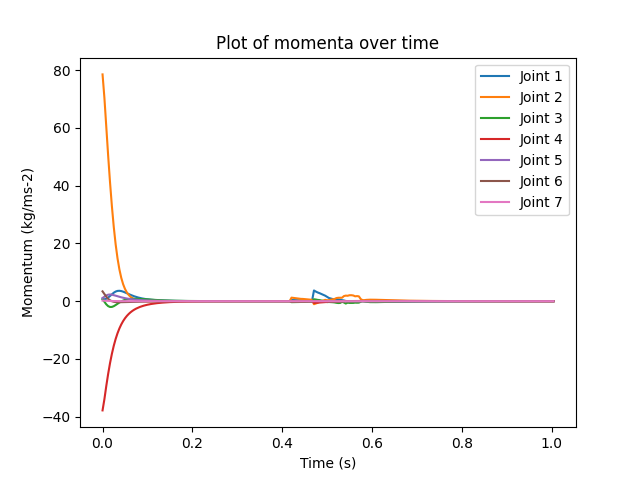
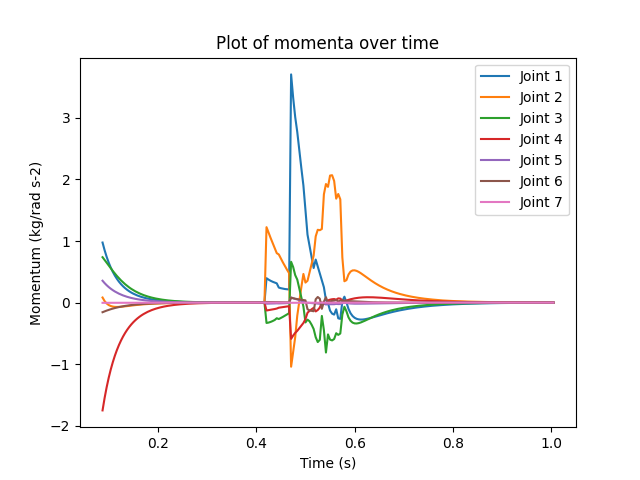
added coriolis matrix check. shortened time range. added KE

diff --git a/main.py b/main.py
@@ -6,10 +6,11 @@ import time
 import pybullet_data
 import numpy as np
 import matplotlib.pyplot as plt
+from mpl_toolkits.mplot3d import Axes3D
 
 
 robot_urdf = "kuka_lbr_iiwa_support/urdf/lbr_iiwa_14_r820.urdf"
-simulation_steps = 1000
+collision_index = 100
 
 
 def main():
@@ -50,18 +51,23 @@ def main():
     time_step = 1/240
     p.setTimeStep(time_step)
 
+    simulation_steps = 1000
+
     p_0 = None
     r_0 = None
     previous_velocities = None
+    selected_link = None
 
     gain_values = [0.01] * 7
     gain_matrix = np.diag(gain_values)
-    print(gain_matrix)
+    # print(gain_matrix)
 
     residuals = []
     time_steps = []
     all_joint_velocities = []
     all_momenta = []
+    all_link_positions = {i: [] for i in range(num_joints)}
+    kinetic_energy = []
 
     # Display in the simulation how the robot goes from initial position, to our desired position
     for i in range(simulation_steps):
@@ -90,6 +96,9 @@ def main():
             if j_type > 0:
                 continue
 
+            link_pos = link_state[4]
+            all_link_positions[joint_index].append(link_pos)
+
             j_name = joint_info[1].decode("utf-8")
             j_index = joint_info[0]
 
@@ -109,7 +118,7 @@ def main():
         # print(joint_names)
         # print(joint_types)
         # print(joint_indexes)
-        print(joint_velocities_3D)
+        # print(joint_velocities_3D)
 
         ################################################################
 
@@ -117,6 +126,11 @@ def main():
 
         # print(f"Inertia matrix: {inertia_matrix}")
         # print(inertia_matrix.shape)
+
+        #################################################################
+
+        ke = 0.5 * np.matrix(joint_velocities) * inertia_matrix * np.matrix(joint_velocities).transpose()
+        kinetic_energy.append(ke.item(0, 0))
 
         #################################################################
 
@@ -152,9 +166,39 @@ def main():
         # print(f"Coriolis Matrix: {C}")
         # print(f"Coriolis matrix shape: {C.shape}")
 
+        ########################## Coriolis Matrix Check #################
+
+        # matches = []
+        # affected_joints = [0, 3, 5]
+        # delta_q = 0.001
+        # dq = copy.copy(joint_positions)
+        #
+        # for joint in affected_joints:
+        #     dq[joint] += delta_q
+        #
+        # dq_ = [q + q_ for q, q_ in zip(joint_positions, dq)]
+        # M_k = inertia_matrix / dq_
+        #
+        # dM_dt = np.zeros(shape=M_k.shape)
+        #
+        # rows, cols = M_k.shape
+        #
+        # coriolis_check = C + np.transpose(C)
+        #
+        # for row in range(rows):
+        #     for col in range(cols):
+        #         dM_dt[row][col] = (inertia_matrix[row][col] - M_k[row][col]) / time_step
+        #
+        #         if dM_dt[row][col] == coriolis_check[row][col]:
+        #             matches.append(True)
+        #         else:
+        #             matches.append(False)
+        #
+        # print(f"Coriolis computation is valid: {all(matches)}")
+
         #################################################################
 
-        if i == 100:
+        if i == collision_index:
             # Retrieve the link positions and orientations
             link_states = p.getLinkStates(robot, range(7))
 
@@ -165,6 +209,7 @@ def main():
             random_index = random.randint(3, len(link_positions) - 1)
 
             # Get the position and orientation of the randomly selected link
+            selected_link = random_index
             selected_link_position = link_positions[random_index]
             selected_link_orientation = link_orientations[random_index]
 
@@ -174,7 +219,6 @@ def main():
 
             print("FORCE APPLIED AT LINK", random_index)
             print(f"FORCE APPLIED AT TIME: {current_time}")
-            time.sleep(5)
 
             # Create a visual marker at the selected point
             marker_size = 0.05
@@ -204,7 +248,7 @@ def main():
 
         residuals.append(new_residual)
 
-        print(f"New residual: {new_residual}")
+        # print(f"New residual: {new_residual}")
 
         #####################################################
 
@@ -213,8 +257,20 @@ def main():
         if current_time > 1.0:
             break
 
+        # time.sleep(0.25)
+
     # Remove initial residual value
     residuals.pop(0)
+
+    print(time_steps)
+
+    index = time_steps.index(0.0875)
+
+    time_steps = time_steps[index:]
+    residuals = residuals[index:]
+    all_momenta = all_momenta[index:]
+    all_joint_velocities = all_joint_velocities[index:]
+    kinetic_energy = kinetic_energy[index:]
 
     plot_graph("Plot of residuals over time",
                "residuals",
@@ -226,7 +282,7 @@ def main():
 
     plot_graph("Plot of momenta over time",
                "momenta",
-               "Momentum (kg/ms-2)",
+               "Momentum (kg/rad s-2)",
                all_momenta,
                time_steps)
 
@@ -234,9 +290,26 @@ def main():
 
     plot_graph("Plot of velocity over time",
                "velocities",
-               "Velocity (ms-1)",
+               "Velocity (rad s-1)",
                all_joint_velocities,
                time_steps)
+
+    plt.clf()
+
+    plot_scalar_graph("Plot of kinetic energy over time",
+                      "kinetic_energy",
+                      "Kinetic Energy",
+                      kinetic_energy,
+                      time_steps)
+
+    plt.clf()
+
+    positions = all_link_positions[selected_link]
+    positions = positions[index:]
+    plot_3d_graph("Plot of collision-affected link movement",
+                  "link_movement",
+                  "Euclidean distance",
+                  positions)
 
     p.disconnect()
 
@@ -278,6 +351,20 @@ def compute_coriolis_matrix(robot, joint_positions, joint_velocities, joint_acce
     return C + Csq + np.diag(joint_velocities)
 
 
+def plot_scalar_graph(title, figure_name, variable_name, variables, time_steps):
+
+    timesteps = np.array(time_steps)
+
+    plt.plot(timesteps, np.array(variables))
+
+    plt.xlabel('Time (s)')
+    plt.ylabel(variable_name)
+    plt.title(title)
+    plt.legend()
+
+    plt.savefig(figure_name+".png")
+
+
 def plot_graph(title, figure_name, variable_name, variables, time_steps):
 
     vel = np.array(variables)
@@ -290,6 +377,32 @@ def plot_graph(title, figure_name, variable_name, variables, time_steps):
     plt.ylabel(variable_name)
     plt.title(title)
     plt.legend()
+
+    plt.savefig(figure_name+".png")
+
+
+def plot_3d_graph(title, figure_name, variable_name, variables):
+
+    x = [point[0] for point in variables]
+    y = [point[1] for point in variables]
+    z = [point[2] for point in variables]
+
+    fig = plt.figure()
+    ax = fig.add_subplot(111, projection='3d')
+    ax.scatter(x, y, z)
+
+    highlight_index = collision_index
+    ax.scatter(x[highlight_index], y[highlight_index], z[highlight_index], color='red', s=100)
+
+    ax.set_xlim(min(x), max(x))
+    ax.set_ylim(min(y), max(y))
+    ax.set_zlim(min(z), max(z))
+
+    ax.set_xlabel("x")
+    ax.set_ylabel("y")
+    ax.set_zlabel("z")
+
+    ax.set_title(title)
 
     plt.savefig(figure_name+".png")
 
